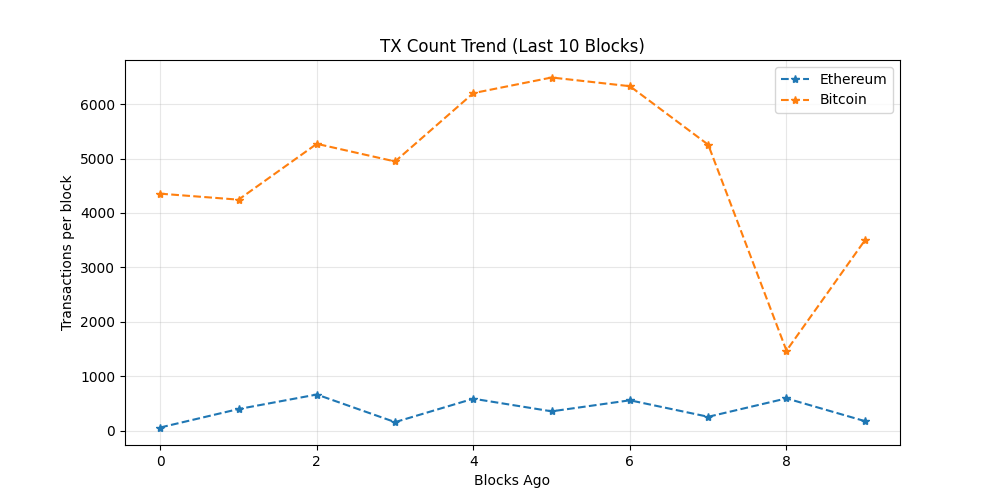
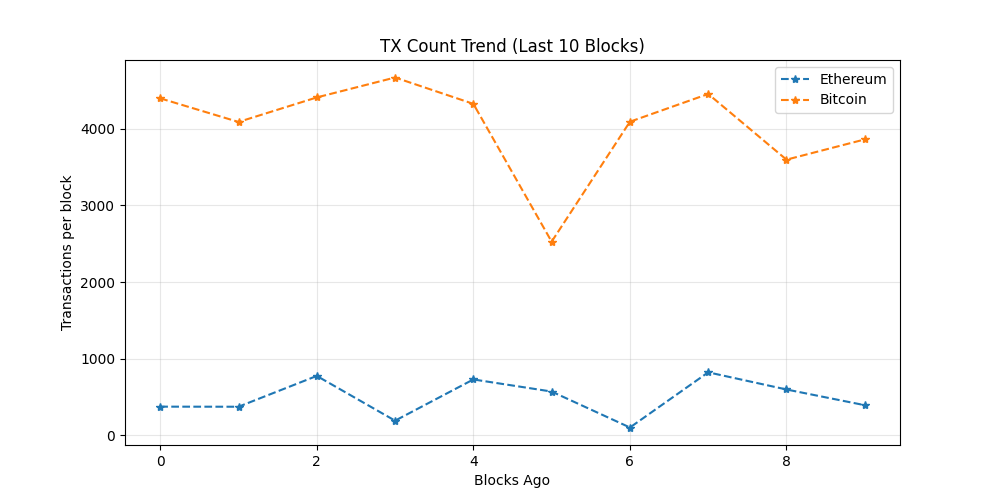
chore: update on-chain dashboard

diff --git a/README.md b/README.md
@@ -19,7 +19,7 @@ The README itself acts as the dashboard and is regenerated automatically on a 6 
 demonstrating a production-style, infrastructure-focused observability workflow rather
 than a traditional UI-driven approach.
 
-_Last updated: 2026-08-04 03:35 UTC_
+_Last updated: 2026-08-04 09:06 UTC_
 
 ## API Usage (GetBlock.io)
 - Calls used: **24**
@@ -27,8 +27,8 @@ _Last updated: 2026-08-04 03:35 UTC_
 ## Network Metrics
 | Chain | Block Height | TX Count | TPS (10 blk avg) | Block Util | Avg Fee |
 |------|-------------|----------|------------------|------------|---------|
-| Ethereum | 25678887 | 175 | 14.58 | 19.51% | 0.1 Gwei |
-| Bitcoin | 960957 | 3494 | 1.16 | 99.79% | N/A |
+| Ethereum | 25680538 | 393 | 32.75 | 55.98% | 0.1 Gwei |
+| Bitcoin | 960988 | 3861 | 21.1 | 99.89% | N/A |
 
 ## Visuals
 ### Transactions Trend
@@ -43,11 +43,11 @@ _Last updated: 2026-08-04 03:35 UTC_
 ## Whale Alerts (latest block)
 - Transaction hashes are truncated for readability.
 - Full hashes are available in `dashboards/metrics.json`
-- Bitcoin | 109.3 BTC | `020a698d95e8…`
-- Bitcoin | 230.0 BTC | `57ccedb143ce…`
-- Bitcoin | 165.29 BTC | `dc033e405c59…`
-- Bitcoin | 100.18 BTC | `dc52fc3adc70…`
-- Bitcoin | 241.69 BTC | `e3462135c08b…`
+- Bitcoin | 170.95 BTC | `b7fe4ba1d6bb…`
+- Bitcoin | 116.33 BTC | `ffb48d0284fb…`
+- Bitcoin | 117.97 BTC | `921222eab43f…`
+- Bitcoin | 1140.79 BTC | `0f7ac34eea7e…`
+- Bitcoin | 129.94 BTC | `129f5492b177…`
 
 ## Run locally
 
